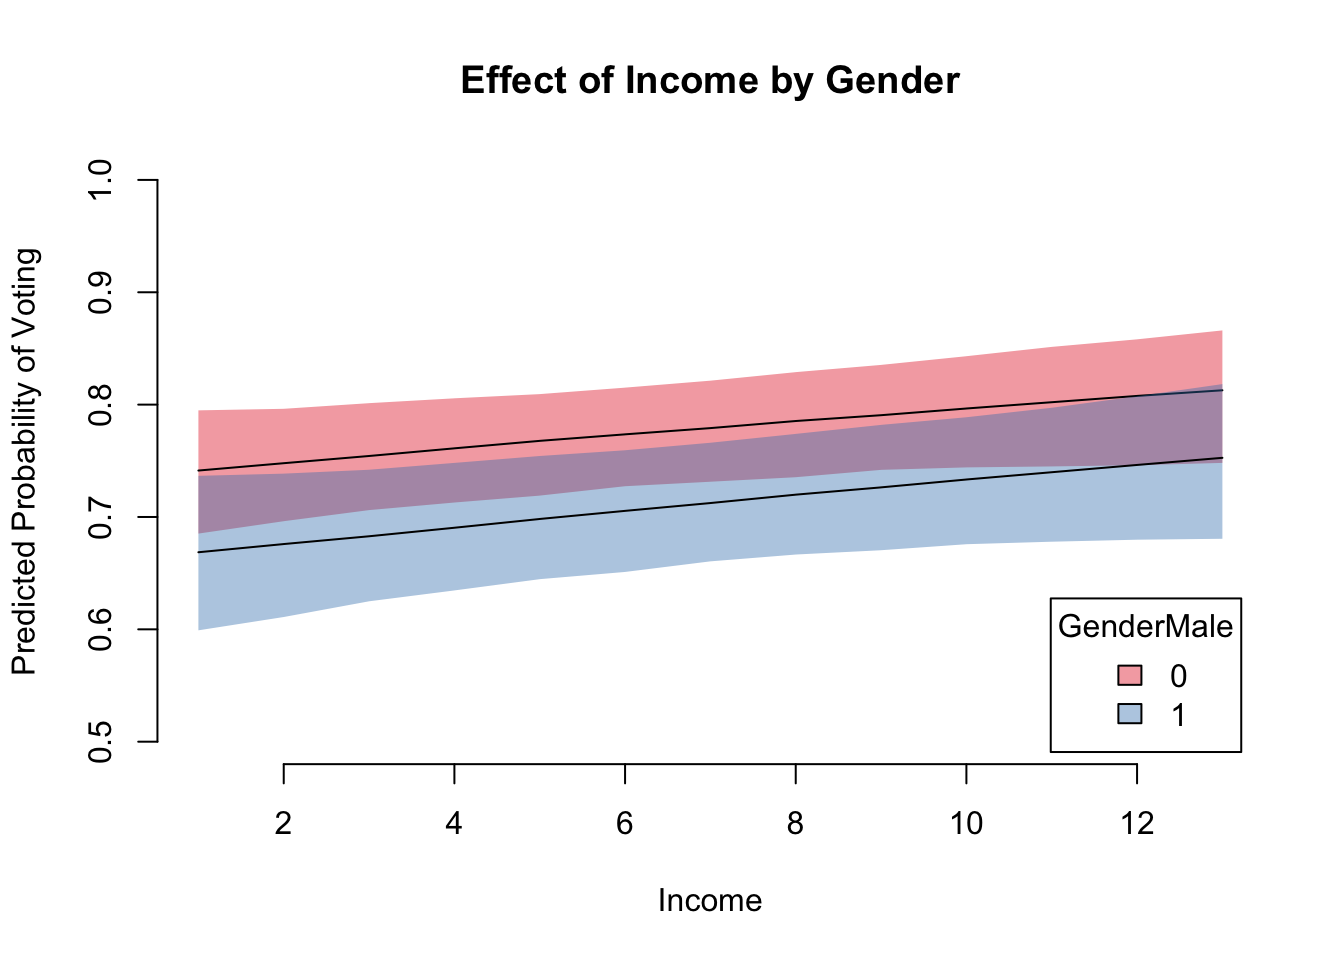
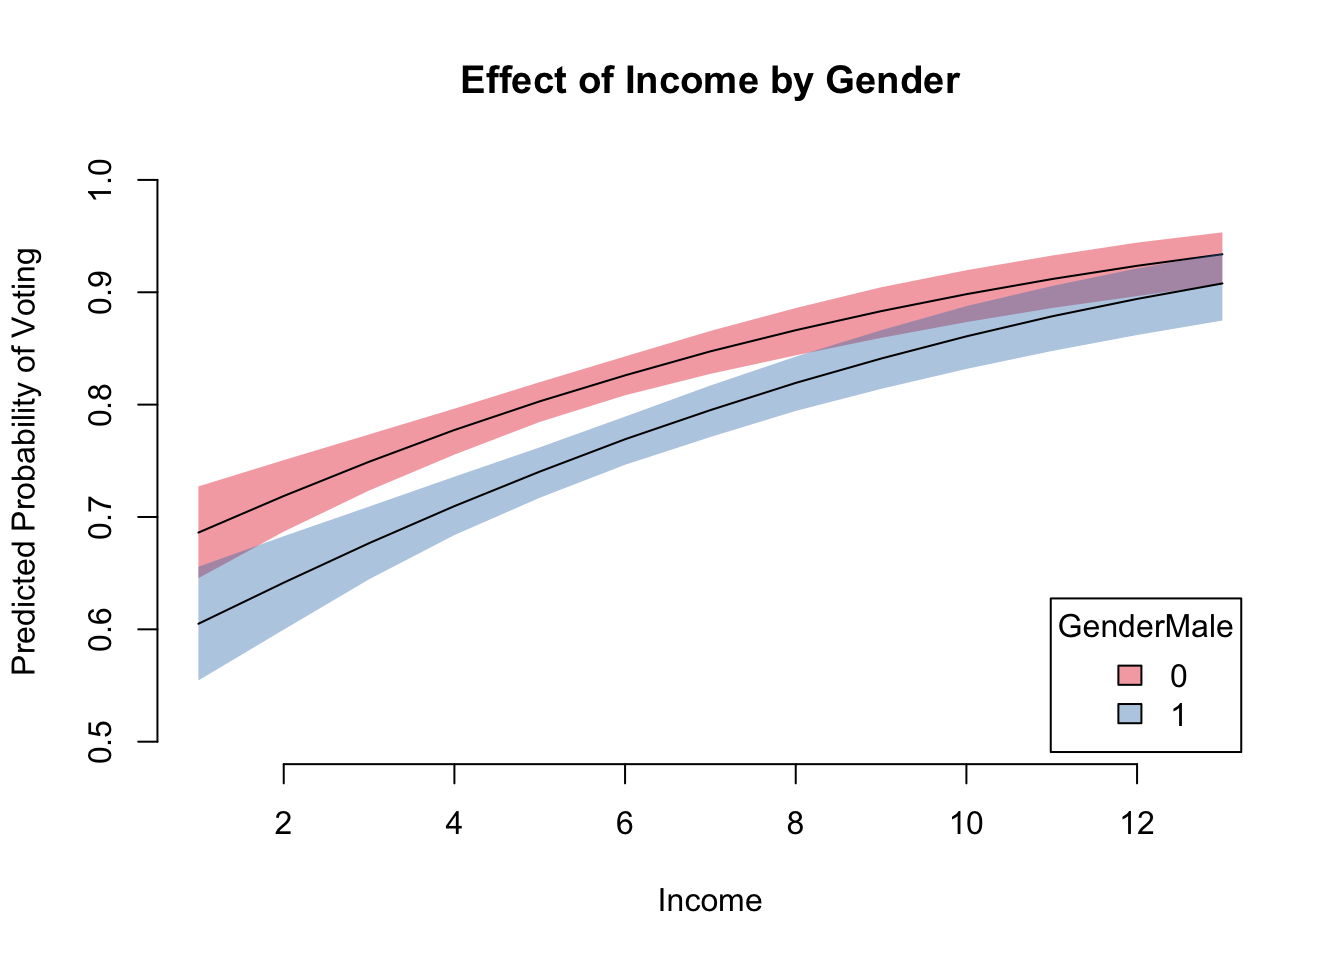
fixing binary model example, issue #4

Changed region(s): [[0.125, 0.2188, 0.9375, 0.7188]]

diff --git a/docs/articles/binary_models.html b/docs/articles/binary_models.html
@@ -81,159 +81,181 @@
 <div class="sourceCode"><pre class="sourceCode r"><code class="sourceCode r">bes &lt;-<span class="st"> </span><span class="kw"><a href="http://www.rdocumentation.org/packages/foreign/topics/read.dta">read.dta</a></span>(<span class="st">"http://uclspp.github.io/PUBLG100/data/bes.dta"</span>)
 
 bes<span class="op">$</span>Gender &lt;-<span class="st"> </span><span class="kw">factor</span>(bes<span class="op">$</span>Gender, <span class="dt">levels =</span> <span class="kw">c</span>(<span class="dv">0</span>, <span class="dv">1</span>), <span class="dt">labels =</span> <span class="kw">c</span>(<span class="st">"Female"</span>, <span class="st">"Male"</span>))</code></pre></div>
-<div class="sourceCode"><pre class="sourceCode r"><code class="sourceCode r">model &lt;-<span class="st"> </span><span class="kw">glm</span>(Turnout <span class="op">~</span><span class="st"> </span>Income <span class="op">+</span><span class="st"> </span>polinfoindex <span class="op">+</span><span class="st"> </span>Gender <span class="op">+</span><span class="st"> </span>edu15 <span class="op">+</span><span class="st"> </span>edu17 <span class="op">+</span><span class="st"> </span>edu18 <span class="op">+</span><span class="st"> </span>edu19plus <span class="op">+</span><span class="st"> </span>in_school <span class="op">+</span><span class="st"> </span>in_uni, 
+<div class="sourceCode"><pre class="sourceCode r"><code class="sourceCode r">model &lt;-<span class="st"> </span><span class="kw">glm</span>(Turnout <span class="op">~</span><span class="st"> </span>Income <span class="op">+</span><span class="st"> </span>polinfoindex <span class="op">+</span><span class="st"> </span>Influence <span class="op">+</span><span class="st"> </span>Gender <span class="op">+</span><span class="st"> </span>Age <span class="op">+</span><span class="st"> </span>
+<span class="st">               </span>edu15 <span class="op">+</span><span class="st"> </span>edu17 <span class="op">+</span><span class="st"> </span>edu18 <span class="op">+</span><span class="st"> </span>edu19plus <span class="op">+</span><span class="st"> </span>in_school <span class="op">+</span><span class="st"> </span>in_uni,
              <span class="dt">family =</span> binomial,
              <span class="dt">data =</span> bes)
 
 <span class="kw">summary</span>(model)</code></pre></div>
 <pre><code>## 
 ## Call:
-## glm(formula = Turnout ~ Income + polinfoindex + Gender + edu15 + 
-##     edu17 + edu18 + edu19plus + in_school + in_uni, family = binomial, 
-##     data = bes)
+## glm(formula = Turnout ~ Income + polinfoindex + Influence + Gender + 
+##     Age + edu15 + edu17 + edu18 + edu19plus + in_school + in_uni, 
+##     family = binomial, data = bes)
 ## 
 ## Deviance Residuals: 
 ##     Min       1Q   Median       3Q      Max  
-## -2.2687  -0.9372   0.5915   0.7879   1.7798  
+## -3.0011  -0.6358   0.4995   0.7267   2.0876  
 ## 
 ## Coefficients:
 ##              Estimate Std. Error z value Pr(&gt;|z|)    
-## (Intercept)  -1.13925    0.14935  -7.628 2.38e-14 ***
-## Income        0.03437    0.01862   1.846  0.06495 .  
-## polinfoindex  0.37947    0.02230  17.019  &lt; 2e-16 ***
-## GenderMale   -0.35236    0.07741  -4.552 5.32e-06 ***
-## edu15         0.37946    0.09619   3.945 7.99e-05 ***
-## edu17         0.46013    0.14902   3.088  0.00202 ** 
-## edu18         0.10982    0.14319   0.767  0.44312    
-## edu19plus     0.24044    0.12266   1.960  0.04998 *  
-## in_school     0.14754    0.39279   0.376  0.70719    
-## in_uni       -0.71977    0.25498  -2.823  0.00476 ** 
+## (Intercept)  -3.90484    0.22364 -17.461  &lt; 2e-16 ***
+## Income        0.15397    0.02138   7.201 5.96e-13 ***
+## polinfoindex  0.25066    0.02424  10.339  &lt; 2e-16 ***
+## Influence     0.21015    0.01930  10.889  &lt; 2e-16 ***
+## GenderMale   -0.35511    0.08203  -4.329 1.50e-05 ***
+## Age           0.04873    0.00313  15.567  &lt; 2e-16 ***
+## edu15        -0.33626    0.11213  -2.999  0.00271 ** 
+## edu17         0.35910    0.15907   2.257  0.02398 *  
+## edu18         0.14084    0.15221   0.925  0.35479    
+## edu19plus     0.01483    0.12997   0.114  0.90914    
+## in_school     1.12978    0.40270   2.805  0.00502 ** 
+## in_uni       -0.05110    0.27029  -0.189  0.85006    
 ## ---
 ## Signif. codes:  0 '***' 0.001 '**' 0.01 '*' 0.05 '.' 0.1 ' ' 1
 ## 
 ## (Dispersion parameter for binomial family taken to be 1)
 ## 
 ##     Null deviance: 4763.0  on 4160  degrees of freedom
-## Residual deviance: 4381.2  on 4151  degrees of freedom
+## Residual deviance: 3979.9  on 4149  degrees of freedom
 ##   (630 observations deleted due to missingness)
-## AIC: 4401.2
+## AIC: 4003.9
 ## 
-## Number of Fisher Scoring iterations: 4</code></pre>
+## Number of Fisher Scoring iterations: 5</code></pre>
 <div class="sourceCode"><pre class="sourceCode r"><code class="sourceCode r">x &lt;-<span class="st"> </span><span class="kw">list</span>(
-  <span class="dt">Gender =</span> <span class="kw">c</span>(<span class="st">"Male"</span>, <span class="st">"Female"</span>),
-  <span class="dt">edu18 =</span> <span class="dv">1</span>, 
-  <span class="dt">edu15 =</span> <span class="dv">0</span>, 
-  <span class="dt">edu17 =</span> <span class="dv">0</span>, 
-  <span class="dt">edu19plus =</span> <span class="dv">0</span>, 
-  <span class="dt">in_school =</span> <span class="dv">0</span>, 
-  <span class="dt">in_uni =</span> <span class="dv">0</span>
+  <span class="dt">Gender =</span> <span class="kw">c</span>(<span class="st">"Male"</span>, <span class="st">"Female"</span>)
 )
 
 sim &lt;-<span class="st"> </span><span class="kw"><a href="../reference/regsim.html">regsim</a></span>(model, x)
 
 <span class="kw">summary</span>(sim, <span class="dt">detail =</span> <span class="ot">TRUE</span>, <span class="dt">rotate =</span> <span class="ot">TRUE</span>)</code></pre></div>
-<pre><code>##                     1
-## Income       5.321557
-## polinfoindex 5.409277
-## GenderMale   1.000000
-## edu15        0.000000
-## edu17        0.000000
-## edu18        1.000000
-## edu19plus    0.000000
-## in_school    0.000000
-## in_uni       0.000000
+<pre><code>##                         1
+## Income        5.321557318
+## polinfoindex  5.409276616
+## Influence     3.608507570
+## GenderMale    1.000000000
+## Age          50.918529200
+## edu15         0.333093006
+## edu17         0.090122567
+## edu18         0.086998318
+## edu19plus     0.205719779
+## in_school     0.008061408
+## in_uni        0.017303533
 ## 
 ##        mean         sd      2.5%       50%     97.5%
-## 1 0.7013192 0.02741004 0.6509045 0.7001738 0.7528427
+## 1 0.7500049 0.01142841 0.7275294 0.7504211 0.7714293
 ## ------------------------------------------------
 ## 
-##                     2
-## Income       5.321557
-## polinfoindex 5.409277
-## GenderMale   0.000000
-## edu15        0.000000
-## edu17        0.000000
-## edu18        1.000000
-## edu19plus    0.000000
-## in_school    0.000000
-## in_uni       0.000000
+##                         2
+## Income        5.321557318
+## polinfoindex  5.409276616
+## Influence     3.608507570
+## GenderMale    0.000000000
+## Age          50.918529200
+## edu15         0.333093006
+## edu17         0.090122567
+## edu18         0.086998318
+## edu19plus     0.205719779
+## in_school     0.008061408
+## in_uni        0.017303533
 ## 
-##        mean         sd      2.5%       50%     97.5%
-## 2 0.7689929 0.02241123 0.7217829 0.7698233 0.8117806
+##        mean          sd      2.5%       50%     97.5%
+## 2 0.8106002 0.008854289 0.7927839 0.8105192 0.8264596
 ## ------------------------------------------------
 ## 
 ## First Differences:
 ## 
-##         mean           sd       2.5%       50%      97.5%
-## 2 0.06767364 -0.004998813 0.07087841 0.0696495 0.05893787</code></pre>
+##         mean        sd       2.5%        50%      97.5%
+## fd 0.0605953 0.0143507 0.03270834 0.06025331 0.08989023</code></pre>
 <div class="sourceCode"><pre class="sourceCode r"><code class="sourceCode r">x &lt;-<span class="st"> </span><span class="kw">list</span>(
   <span class="dt">Gender =</span> <span class="kw">c</span>(<span class="st">"Male"</span>, <span class="st">"Female"</span>),
-  <span class="dt">Income =</span> <span class="dv">1</span><span class="op">:</span><span class="dv">13</span>,
-  <span class="dt">edu18 =</span> <span class="dv">1</span>, 
-  <span class="dt">edu15 =</span> <span class="dv">0</span>, 
-  <span class="dt">edu17 =</span> <span class="dv">0</span>, 
-  <span class="dt">edu19plus =</span> <span class="dv">0</span>, 
-  <span class="dt">in_school =</span> <span class="dv">0</span>, 
-  <span class="dt">in_uni =</span> <span class="dv">0</span>
+  <span class="dt">Income =</span> <span class="dv">1</span><span class="op">:</span><span class="dv">13</span>
 )
 
 sim &lt;-<span class="st"> </span><span class="kw"><a href="../reference/regsim.html">regsim</a></span>(model, x)
 
 <span class="kw">summary</span>(sim)</code></pre></div>
-<pre><code>##    Income polinfoindex GenderMale edu15 edu17 edu18 edu19plus in_school
-## 1       1     5.409277          1     0     0     1         0         0
-## 2       1     5.409277          0     0     0     1         0         0
-## 3       2     5.409277          1     0     0     1         0         0
-## 4       2     5.409277          0     0     0     1         0         0
-## 5       3     5.409277          1     0     0     1         0         0
-## 6       3     5.409277          0     0     0     1         0         0
-## 7       4     5.409277          1     0     0     1         0         0
-## 8       4     5.409277          0     0     0     1         0         0
-## 9       5     5.409277          1     0     0     1         0         0
-## 10      5     5.409277          0     0     0     1         0         0
-## 11      6     5.409277          1     0     0     1         0         0
-## 12      6     5.409277          0     0     0     1         0         0
-## 13      7     5.409277          1     0     0     1         0         0
-## 14      7     5.409277          0     0     0     1         0         0
-## 15      8     5.409277          1     0     0     1         0         0
-## 16      8     5.409277          0     0     0     1         0         0
-## 17      9     5.409277          1     0     0     1         0         0
-## 18      9     5.409277          0     0     0     1         0         0
-## 19     10     5.409277          1     0     0     1         0         0
-## 20     10     5.409277          0     0     0     1         0         0
-## 21     11     5.409277          1     0     0     1         0         0
-## 22     11     5.409277          0     0     0     1         0         0
-## 23     12     5.409277          1     0     0     1         0         0
-## 24     12     5.409277          0     0     0     1         0         0
-## 25     13     5.409277          1     0     0     1         0         0
-## 26     13     5.409277          0     0     0     1         0         0
-##    in_uni      mean         sd      2.5%       50%     97.5%
-## 1       0 0.6679970 0.03576331 0.5991169 0.6686079 0.7366267
-## 2       0 0.7408631 0.02847774 0.6852196 0.7413337 0.7949050
-## 3       0 0.6757063 0.03313394 0.6109661 0.6759082 0.7385877
-## 4       0 0.7475475 0.02630255 0.6962452 0.7478632 0.7962883
-## 5       0 0.6833044 0.03091480 0.6249567 0.6828289 0.7420519
-## 6       0 0.7540902 0.02455673 0.7061189 0.7542834 0.8013113
-## 7       0 0.6907854 0.02916522 0.6346262 0.6904190 0.7481364
-## 8       0 0.7604890 0.02328333 0.7128757 0.7611042 0.8056300
-## 9       0 0.6981440 0.02793432 0.6446560 0.6982244 0.7542812
-## 10      0 0.7667420 0.02250739 0.7190266 0.7677554 0.8093638
-## 11      0 0.7053756 0.02724977 0.6510822 0.7054413 0.7593925
-## 12      0 0.7728480 0.02222608 0.7273760 0.7735549 0.8151299
-## 13      0 0.7124758 0.02710831 0.6605026 0.7124042 0.7660765
-## 14      0 0.7788062 0.02240508 0.7313810 0.7791051 0.8213253
-## 15      0 0.7194410 0.02747327 0.6665793 0.7198683 0.7739552
-## 16      0 0.7846161 0.02298407 0.7353972 0.7854135 0.8289274
-## 17      0 0.7262681 0.02828102 0.6704121 0.7263542 0.7819835
-## 18      0 0.7902780 0.02388854 0.7419392 0.7905888 0.8353578
-## 19      0 0.7329544 0.02945315 0.6757680 0.7333589 0.7887673
-## 20      0 0.7957921 0.02504235 0.7441327 0.7965567 0.8431038
-## 21      0 0.7394979 0.03090895 0.6779938 0.7398329 0.7972121
-## 22      0 0.8011593 0.02637644 0.7449915 0.8021385 0.8513963
-## 23      0 0.7458969 0.03257423 0.6797786 0.7463123 0.8074611
-## 24      0 0.8063807 0.02783290 0.7460637 0.8077507 0.8581176
-## 25      0 0.7521503 0.03438563 0.6806091 0.7526566 0.8182747
-## 26      0 0.8114578 0.02936557 0.7481427 0.8127627 0.8660649</code></pre>
+<pre><code>##    Income polinfoindex Influence GenderMale      Age    edu15      edu17
+## 1       1     5.409277  3.608508          1 50.91853 0.333093 0.09012257
+## 2       1     5.409277  3.608508          0 50.91853 0.333093 0.09012257
+## 3       2     5.409277  3.608508          1 50.91853 0.333093 0.09012257
+## 4       2     5.409277  3.608508          0 50.91853 0.333093 0.09012257
+## 5       3     5.409277  3.608508          1 50.91853 0.333093 0.09012257
+## 6       3     5.409277  3.608508          0 50.91853 0.333093 0.09012257
+## 7       4     5.409277  3.608508          1 50.91853 0.333093 0.09012257
+## 8       4     5.409277  3.608508          0 50.91853 0.333093 0.09012257
+## 9       5     5.409277  3.608508          1 50.91853 0.333093 0.09012257
+## 10      5     5.409277  3.608508          0 50.91853 0.333093 0.09012257
+## 11      6     5.409277  3.608508          1 50.91853 0.333093 0.09012257
+## 12      6     5.409277  3.608508          0 50.91853 0.333093 0.09012257
+## 13      7     5.409277  3.608508          1 50.91853 0.333093 0.09012257
+## 14      7     5.409277  3.608508          0 50.91853 0.333093 0.09012257
+## 15      8     5.409277  3.608508          1 50.91853 0.333093 0.09012257
+## 16      8     5.409277  3.608508          0 50.91853 0.333093 0.09012257
+## 17      9     5.409277  3.608508          1 50.91853 0.333093 0.09012257
+## 18      9     5.409277  3.608508          0 50.91853 0.333093 0.09012257
+## 19     10     5.409277  3.608508          1 50.91853 0.333093 0.09012257
+## 20     10     5.409277  3.608508          0 50.91853 0.333093 0.09012257
+## 21     11     5.409277  3.608508          1 50.91853 0.333093 0.09012257
+## 22     11     5.409277  3.608508          0 50.91853 0.333093 0.09012257
+## 23     12     5.409277  3.608508          1 50.91853 0.333093 0.09012257
+## 24     12     5.409277  3.608508          0 50.91853 0.333093 0.09012257
+## 25     13     5.409277  3.608508          1 50.91853 0.333093 0.09012257
+## 26     13     5.409277  3.608508          0 50.91853 0.333093 0.09012257
+##         edu18 edu19plus   in_school     in_uni      mean          sd
+## 1  0.08699832 0.2057198 0.008061408 0.01730353 0.6050016 0.025621897
+## 2  0.08699832 0.2057198 0.008061408 0.01730353 0.6861832 0.021228130
+## 3  0.08699832 0.2057198 0.008061408 0.01730353 0.6413971 0.020746975
+## 4  0.08699832 0.2057198 0.008061408 0.01730353 0.7186343 0.016591942
+## 5  0.08699832 0.2057198 0.008061408 0.01730353 0.6762539 0.016499912
+## 6  0.08699832 0.2057198 0.008061408 0.01730353 0.7489529 0.012825743
+## 7  0.08699832 0.2057198 0.008061408 0.01730353 0.7092557 0.013254141
+## 8  0.08699832 0.2057198 0.008061408 0.01730353 0.7769974 0.010224554
+## 9  0.08699832 0.2057198 0.008061408 0.01730353 0.7401643 0.011365665
+## 10 0.08699832 0.2057198 0.008061408 0.01730353 0.8027016 0.008988946
+## 11 0.08699832 0.2057198 0.008061408 0.01730353 0.7688225 0.010902913
+## 12 0.08699832 0.2057198 0.008061408 0.01730353 0.8260664 0.008939867
+## 13 0.08699832 0.2057198 0.008061408 0.01730353 0.7951496 0.011449315
+## 14 0.08699832 0.2057198 0.008061408 0.01730353 0.8471474 0.009542577
+## 15 0.08699832 0.2057198 0.008061408 0.01730353 0.8191335 0.012415869
+## 16 0.08699832 0.2057198 0.008061408 0.01730353 0.8660430 0.010311586
+## 17 0.08699832 0.2057198 0.008061408 0.01730353 0.8408193 0.013390477
+## 18 0.08699832 0.2057198 0.008061408 0.01730353 0.8828821 0.010982946
+## 19 0.08699832 0.2057198 0.008061408 0.01730353 0.8602969 0.014170254
+## 20 0.08699832 0.2057198 0.008061408 0.01730353 0.8978131 0.011452041
+## 21 0.08699832 0.2057198 0.008061408 0.01730353 0.8776887 0.014681200
+## 22 0.08699832 0.2057198 0.008061408 0.01730353 0.9109947 0.011695898
+## 23 0.08699832 0.2057198 0.008061408 0.01730353 0.8931388 0.014915706
+## 24 0.08699832 0.2057198 0.008061408 0.01730353 0.9225883 0.011728902
+## 25 0.08699832 0.2057198 0.008061408 0.01730353 0.9068031 0.014897865
+## 26 0.08699832 0.2057198 0.008061408 0.01730353 0.9327527 0.011580817
+##         2.5%       50%     97.5%
+## 1  0.5544915 0.6049414 0.6556952
+## 2  0.6454822 0.6861045 0.7272012
+## 3  0.5997418 0.6415422 0.6829124
+## 4  0.6869814 0.7186706 0.7506278
+## 5  0.6445324 0.6766781 0.7092501
+## 6  0.7235428 0.7491368 0.7734577
+## 7  0.6838839 0.7096574 0.7358636
+## 8  0.7555025 0.7774153 0.7964279
+## 9  0.7170911 0.7403784 0.7619877
+## 10 0.7845795 0.8029279 0.8199981
+## 11 0.7464501 0.7691871 0.7893478
+## 12 0.8083160 0.8260414 0.8429019
+## 13 0.7711833 0.7951167 0.8170222
+## 14 0.8273815 0.8474114 0.8655907
+## 15 0.7943788 0.8193327 0.8427577
+## 16 0.8438565 0.8662469 0.8859833
+## 17 0.8140072 0.8409884 0.8662164
+## 18 0.8594147 0.8831874 0.9044329
+## 19 0.8317595 0.8607598 0.8877046
+## 20 0.8734593 0.8983004 0.9196227
+## 21 0.8476735 0.8785347 0.9055342
+## 22 0.8859564 0.9117329 0.9326433
+## 23 0.8619454 0.8940804 0.9212184
+## 24 0.8966051 0.9235534 0.9442161
+## 25 0.8748673 0.9078643 0.9345870
+## 26 0.9072273 0.9338138 0.9533448</code></pre>
 <div class="sourceCode"><pre class="sourceCode r"><code class="sourceCode r"><span class="kw">plot</span>(sim, <span class="op">~</span>Income <span class="op">+</span><span class="st"> </span>GenderMale, 
      <span class="dt">ylim =</span> <span class="kw">c</span>(<span class="fl">0.5</span>, <span class="dv">1</span>), 
      <span class="dt">bty =</span> <span class="st">"n"</span>,
